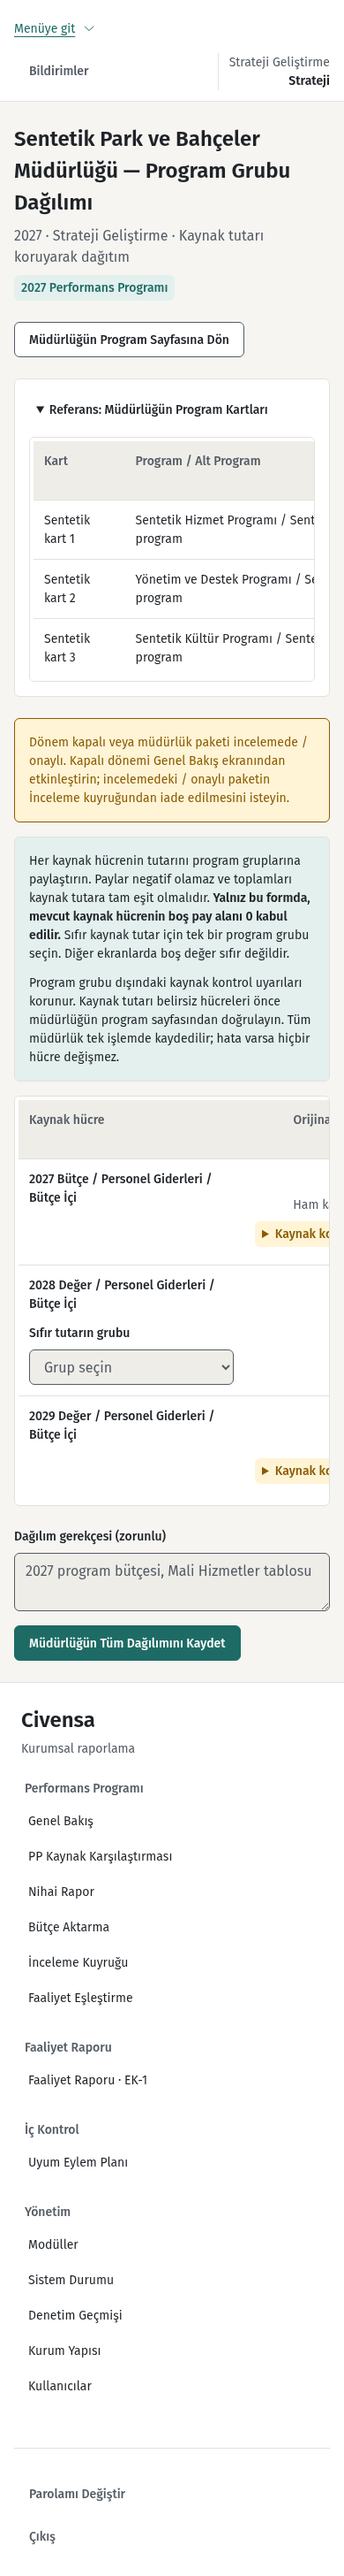
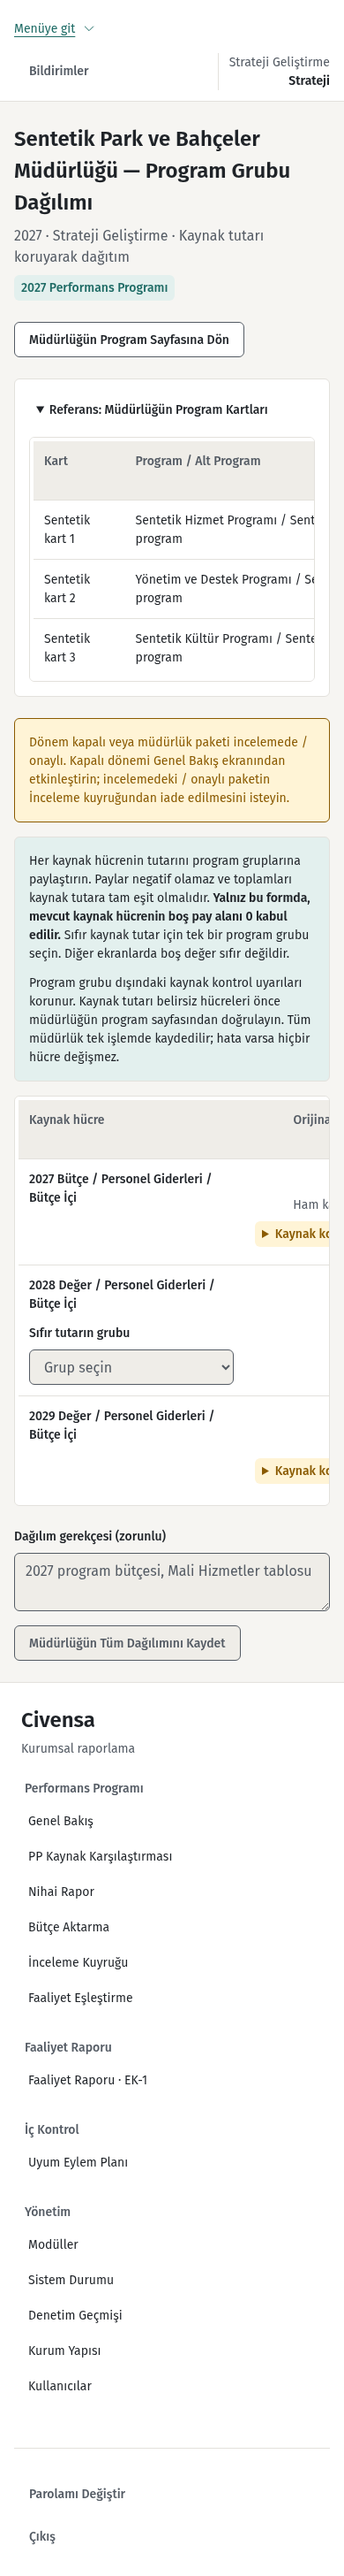
CIV-153 Devre dışı kayıt düğmesi stilini doğrula

Changed region(s): [[0.0308, 0.6248, 0.7077, 0.656]]

diff --git a/app/static/design/economic-split.css b/app/static/design/economic-split.css
@@ -44,4 +44,5 @@
 .economic-split-page .split-reason { width: 100%; max-width: 44rem; margin: var(--space-6) 0 var(--space-4); }
 .economic-split-page textarea { min-height: calc(var(--control-height) * 3); resize: vertical; }
 .economic-split-page :is(input,select,textarea,button):disabled,
+.economic-split-page .button:disabled,
 .economic-split-page .button:disabled:hover { border-color: var(--text-secondary); background: var(--surface-muted); color: var(--text-secondary); opacity: 1; cursor: not-allowed; }

diff --git a/tests/test_economic_split_design.py b/tests/test_economic_split_design.py
@@ -196,6 +196,12 @@ def test_browser_synthetic_evidence(scenes, strategy_client, browser, width, sta
             expect(page.locator('fieldset')).to_have_attribute('disabled', '')
             expect(page.locator('[data-split-share]').first).to_be_disabled()
             expect(page.locator('button[type=submit]')).to_be_disabled()
+            if not before:
+                assert page.locator('button[type=submit]').evaluate("""el => {
+                  const select = document.querySelector('select');
+                  return getComputedStyle(el).backgroundColor === getComputedStyle(select).backgroundColor &&
+                    getComputedStyle(el).color === getComputedStyle(select).color;
+                }""")
         if not before:
             assert_visuals(page)
         # Capture after the interaction checks, at the top with table scroll reset.
